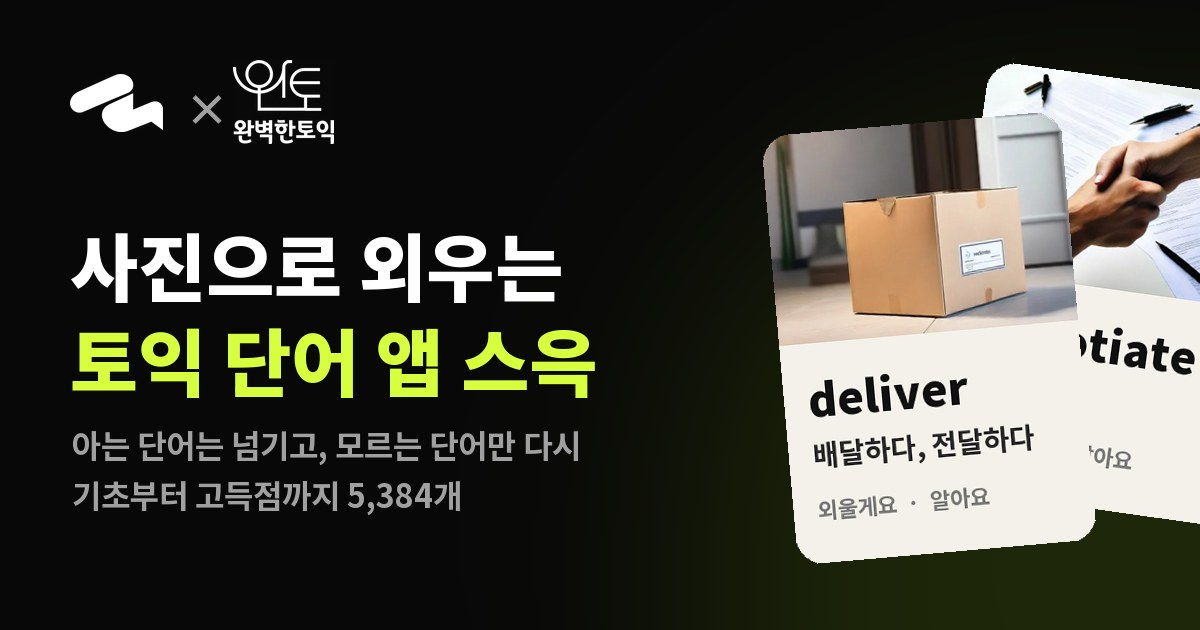
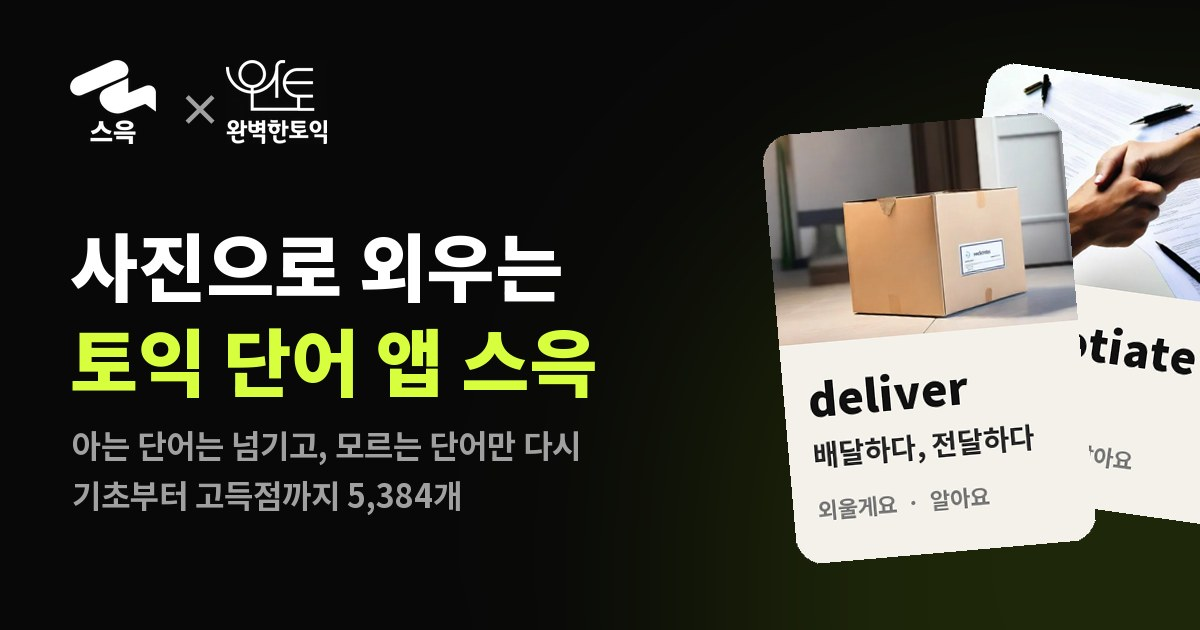
스윽 로고 아래 「스윽」 글자 넣은 로고로(완토 소개 칸·미리보기 그림)

Changed region(s): [[0.0617, 0.0905, 0.2775, 0.2413]]

diff --git a/seuk/index.html b/seuk/index.html
@@ -2,7 +2,7 @@
 <html lang="ko"><head><meta charset="utf-8"><meta name="viewport" content="width=device-width,initial-scale=1">
 <title>스윽 × 완벽한토익 — 토익 단어암기</title>
 <meta name="description" content="사진으로 외우는 토익 단어 앱 스윽. 아는 단어는 넘기고 모르는 단어만 다시, 기초부터 고득점까지 토익 단어 5,384개.">
-<meta property="og:title" content="스윽 × 완벽한토익 — 사진으로 외우는 토익 단어"><meta property="og:description" content="아는 단어는 넘기고 모르는 단어만 다시. 기초부터 고득점까지 토익 단어 5,384개."><meta property="og:image" content="https://perfect-toeic.com/seuk/img/og.jpg?v=1126"><meta property="og:image:width" content="1200"><meta property="og:image:height" content="630"><meta property="og:url" content="https://perfect-toeic.com/seuk/"><meta property="og:type" content="website">
+<meta property="og:title" content="스윽 × 완벽한토익 — 사진으로 외우는 토익 단어"><meta property="og:description" content="아는 단어는 넘기고 모르는 단어만 다시. 기초부터 고득점까지 토익 단어 5,384개."><meta property="og:image" content="https://perfect-toeic.com/seuk/img/og.jpg?v=1126b"><meta property="og:image:width" content="1200"><meta property="og:image:height" content="630"><meta property="og:url" content="https://perfect-toeic.com/seuk/"><meta property="og:type" content="website">
 <link rel="stylesheet" href="https://cdn.jsdelivr.net/gh/orioncactus/pretendard@v1.3.9/dist/web/static/pretendard.min.css">
 <style>
 :root{--bg:#000;--card:#111;--line:#232323;--txt:#ededed;--sub:#9b9b9b;--dim:#6b6b6b;--pt:#d8ff3e;--ptk:#0b0b0b}
@@ -94,7 +94,7 @@ details p{color:#bdbdbd;font-size:15.5px;margin-top:8px}
 .kq{display:block;text-align:center;font-size:14px;color:var(--sub);margin-top:16px}
 .testband{background:#3a3200;color:#ffe680;border-radius:12px;padding:10px 12px;font-size:14px;font-weight:700;text-align:center;margin-bottom:14px}
 .brand img.wl{height:38px;width:auto;margin-left:4px}
-.duo{display:flex;align-items:center;gap:16px;margin-bottom:18px}.duo img{height:46px;width:auto}.duo img.wi{height:84px}.duo span{font-size:26px;color:var(--sub)}
+.duo{display:flex;align-items:center;gap:16px;margin-bottom:18px}.duo img{height:46px;width:auto}.duo img.wi{height:84px}.duo img.si{height:84px}.duo span{font-size:26px;color:var(--sub)}
 .wanto .books{margin-top:18px;border-radius:20px;overflow:hidden}.wanto .books img{width:100%;display:block}
 .brand .x{color:var(--sub);font-weight:500;margin:0 2px}.brand .wt{font-size:15px;font-weight:700}
 .collab{display:inline-block;font-size:13px;font-weight:800;color:var(--pt);border:1px solid #3a3a3a;border-radius:999px;padding:6px 12px;margin-bottom:16px}
@@ -165,7 +165,7 @@ footer nav a{color:#bdbdbd}
 </section>
 
 <section class="wanto">
-  <div class="duo"><img src="logo-mark.png" alt="스윽"><span>×</span><img class="wi" src="img/wanto-logo-w.png" alt="완벽한토익"></div>
+  <div class="duo"><img class="si" src="img/seuk-logo-w.png" alt="스윽"><span>×</span><img class="wi" src="img/wanto-logo-w.png" alt="완벽한토익"></div>
   <span class="collab">스윽 × 완벽한토익</span>
   <h2>단어를 고른 사람들이<br>지금도 매일 토익을 가르칩니다</h2>
   <p class="sub">완벽한토익은 신촌 강의장과 비대면으로 1:1 토익 수업을 하는 곳입니다. 수업에서 학생들이 자주 막히는 단어를 보고 스윽 단어를 골랐습니다.</p>
